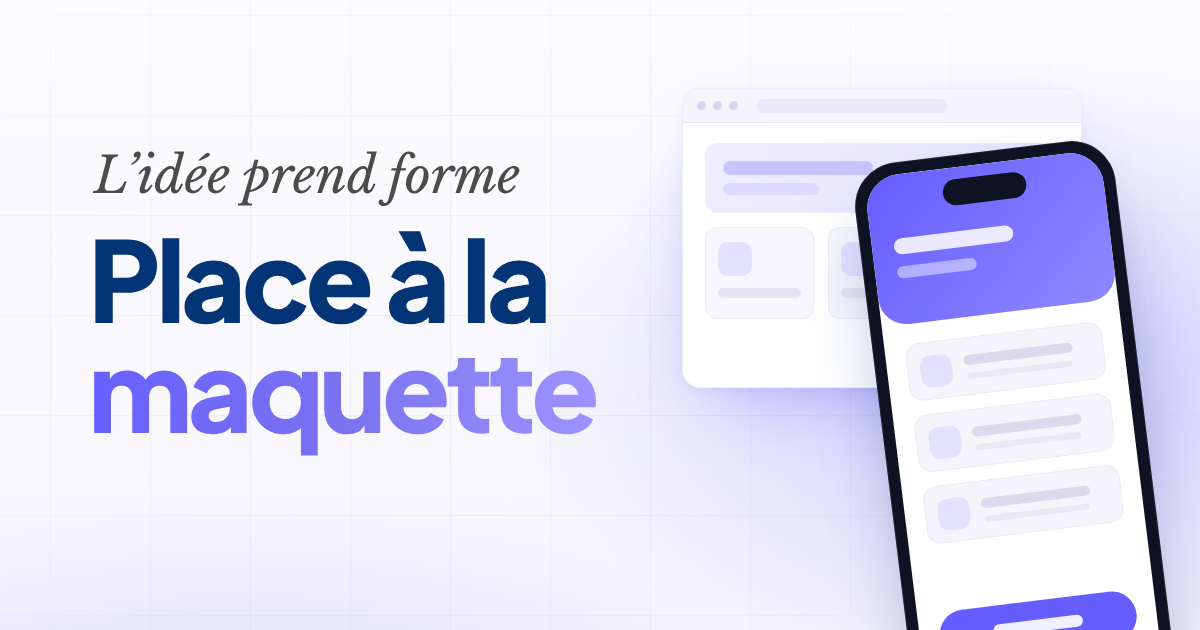
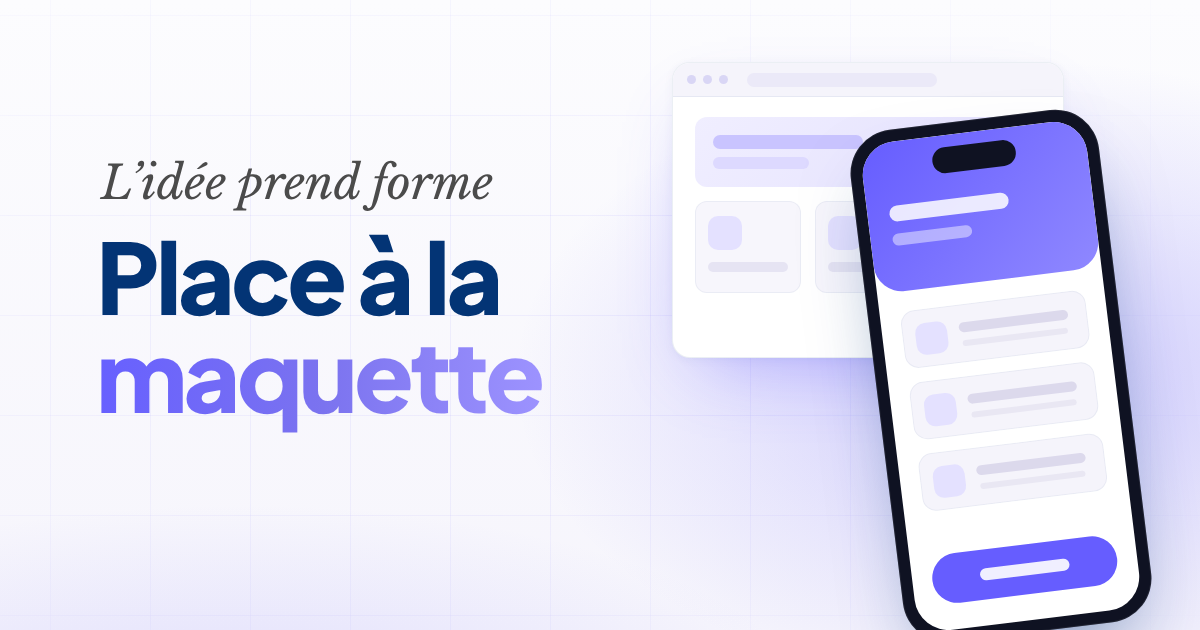
Aperçu maquette : titre un peu plus petit, téléphone entier, plus d'air
Claude-Session: https://claude.ai/code/session_01PSzDaerYfzq1odvAjCNAR4

diff --git a/scripts/og/maquette-og.html b/scripts/og/maquette-og.html
@@ -38,18 +38,18 @@
 
   /* ─── Texte ─── */
   .copy {
-    position: absolute; left: 88px; top: 0; bottom: 0;
+    position: absolute; left: 96px; top: 0; bottom: 0;
     display: flex; flex-direction: column; justify-content: center;
-    padding-bottom: 36px;
+    padding-bottom: 48px;
   }
   .line1 {
     font-family: 'Baskerville', serif; font-style: italic; font-weight: 400;
-    font-size: 50px; line-height: 1; color: #4b4b4b;
-    margin-bottom: 22px; margin-left: 6px;
+    font-size: 46px; line-height: 1; color: #4b4b4b;
+    margin-bottom: 20px; margin-left: 5px;
   }
   .line2 {
     font-family: 'Jakarta', sans-serif; font-weight: 800;
-    font-size: 112px; line-height: 0.98; letter-spacing: -0.04em;
+    font-size: 98px; line-height: 1.0; letter-spacing: -0.038em;
     color: #033475;
   }
   .line2 .accent {
@@ -63,7 +63,7 @@
   .scene { position: absolute; right: 0; top: 0; width: 520px; height: 630px; }
 
   .browser {
-    position: absolute; right: 118px; top: 88px; width: 400px; height: 300px;
+    position: absolute; right: 136px; top: 62px; width: 392px; height: 296px;
     background: #ffffff; border-radius: 18px;
     border: 1px solid rgba(3, 52, 117, 0.08);
     box-shadow: 0 30px 70px -30px rgba(102, 93, 255, 0.45), 0 2px 10px rgba(3, 52, 117, 0.05);
@@ -81,7 +81,7 @@
   .browser .card::after { content: ''; position: absolute; left: 12px; right: 12px; top: 60px; height: 10px; border-radius: 5px; background: #e6e4f3; }
 
   .phone {
-    position: absolute; right: 56px; top: 150px; width: 262px; height: 540px;
+    position: absolute; right: 74px; top: 118px; width: 250px; height: 516px;
     border-radius: 44px; background: #0f1222;
     padding: 12px;
     box-shadow: 0 40px 80px -30px rgba(3, 52, 117, 0.55), 0 0 0 1px rgba(255,255,255,0.08) inset;
